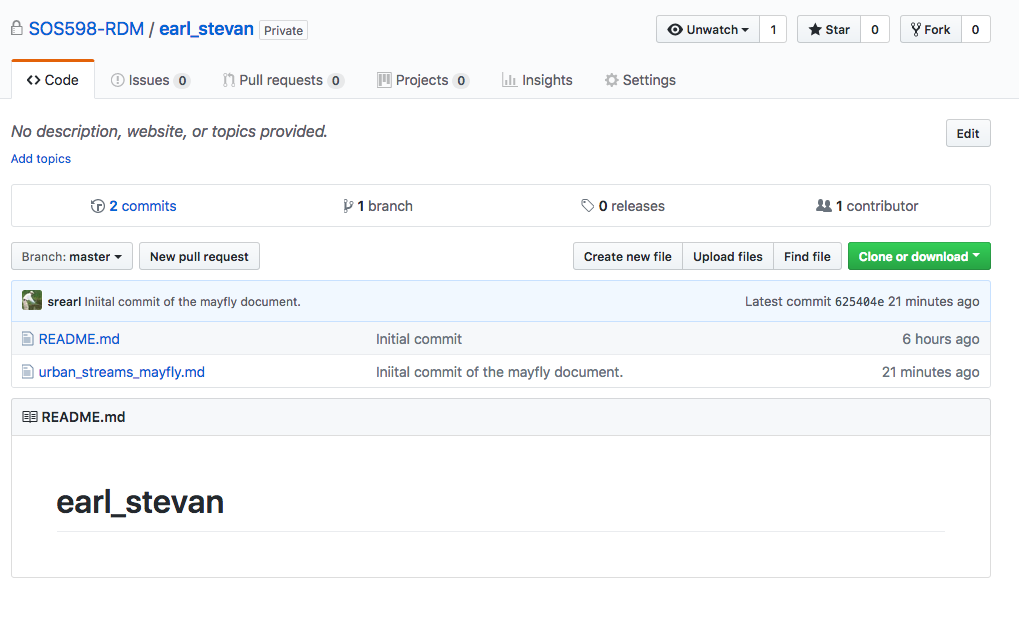
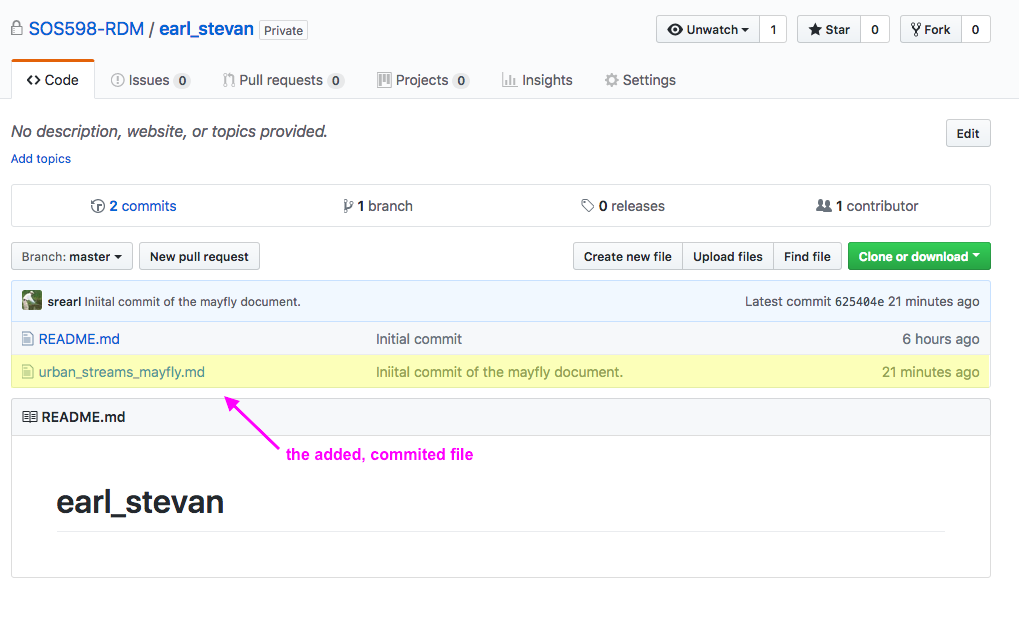
annotated numerous figures; finished opening an issue

Changed region(s): [[0.0, 0.5481, 0.9735, 0.6699], [0.2434, 0.6699, 0.4563, 0.7612]]

diff --git a/README.md b/README.md
@@ -54,9 +54,9 @@ The only thing you need to decide here is where to put the directory on your com
 
 You can navigate to the repository immediately after cloning by hitting _OK_ when GitKraken asks if you want to open the repository now, or you can navigate to it later (or any time) by going back to the folder icon at the top-left of GitKraken, and instead of selecting the clone option, select the open option and navigate to your cloned directory.
 
-At this point, you can navigate to the directory you just cloned to your computer using Finder or Windows Explorer, for example, just like you would any other directory on your computer. We will use GitKraken to facilitate the transfer of files from the directory on our local computer and our GitHub repository, as well as other Git functions, but the directory itself is just a folder on your computer much like any other folder except for a few unseen files needed by Git and GitHub.
+At this point, you can navigate to the directory you just cloned to your computer using, for example, Finder or Windows Explorer just as you would any other directory on your computer. We will use GitKraken to facilitate the transfer of files from the directory on our local computer and our GitHub repository, as well as other Git functions, but the directory itself is just a folder on your computer much like any other folder except for a few unseen files needed by Git and GitHub.
 
-**Using Mac's Finder, we see the *earl_stevan* repository that we just cloned from GitHub as a folder/directory in the *localRepos* directory on my MacBook.** 
+**Using Mac's Finder, we see the *earl_stevan* repository that we just cloned from GitHub as a folder/directory in the *localRepos* directory on this MacBook.** 
 ![local_directory](figures/local_directory.png)
 
 
@@ -164,10 +164,28 @@ The link to the file is what we had clicked on above to view our file in GitHub.
 **Click on commits in our repository to see a history of our project**
 ![show-history](figures/show-history.png)
 
-There are only two commits in the history of this project, the initial commit when the repository was established, and our initial commit of the mayfly document. These are ordered chronologically with the most recent commit first. To get the SHA of any given commit, click on the clipboard icon on the row of the commit you want to reference. In our case, the most recent commit is almost certainly going to be the commit you want to reference for your assignment, but references commits can be important on larger projects or when working on teams.
+There are only two commits in the history of this project, the initial commit when the repository was established, and our initial commit of the mayfly document. These are ordered chronologically from most recent to oldest. To get the SHA of any given commit, click on the clipboard icon on the row of the commit you want to reference. In our case, the most recent commit is almost certainly going to be the commit you want to reference for your assignment, but referencing commits can be important on larger projects or when working in teams.
 
 **Click on the clipboard icon on the row of the commit we want to reference to get the SHA for that commit**
 ![get-sha](figures/get-sha.png)
 
+With the SHA copied to our computer's clipboard and the url to the file you are submitting (referenced above), we now have the pieces that we need to create an issue. 
+
+To create an issue, first click on the *Issues* tab in the repository, then click on the green *New Issue* button.
+
+**creating an Issue in our GitHub repository**
+![issues-tab](figures/issues-tab.png)
+
+The title of our issue should have the format *mark assignment repository name*, so, for example, if this were the DMP assignment, this issue should have the title *mark DMP earl\_stevan*. The body of the issue should contain the SHA of the commit, and the url to the file that you are submitting. Finally, the body of the issue should include a mention to Stevan using his GitHub user name (srearl), and, if the assignment is one that is to be peer-reviewed, a mention to the GitHub user name of your peer reviewer (these will be provided). Mentions send a notification to the addressee alerting them of GitHub activity. Like some other social-media platforms (e.g., Twitter), mentions in GitHub use the @user-name format. When complete, submit the issue by clicking the green *Submit new issue* button.
+
+**populating and submitting our Issue**
+![completed-issue](figures/completed-issue.png)
+
+We now see that there is one issue in the *Issues* tab of our repository.
+
+**Our repository now has one issue**
+![one-new-issue](figures/one-new-issue.png)
+
+This concludes the steps for submitting your assignment. Please see the next section for addressing the peer review.
 
 ## submit peer review by opening a GitHub issue
